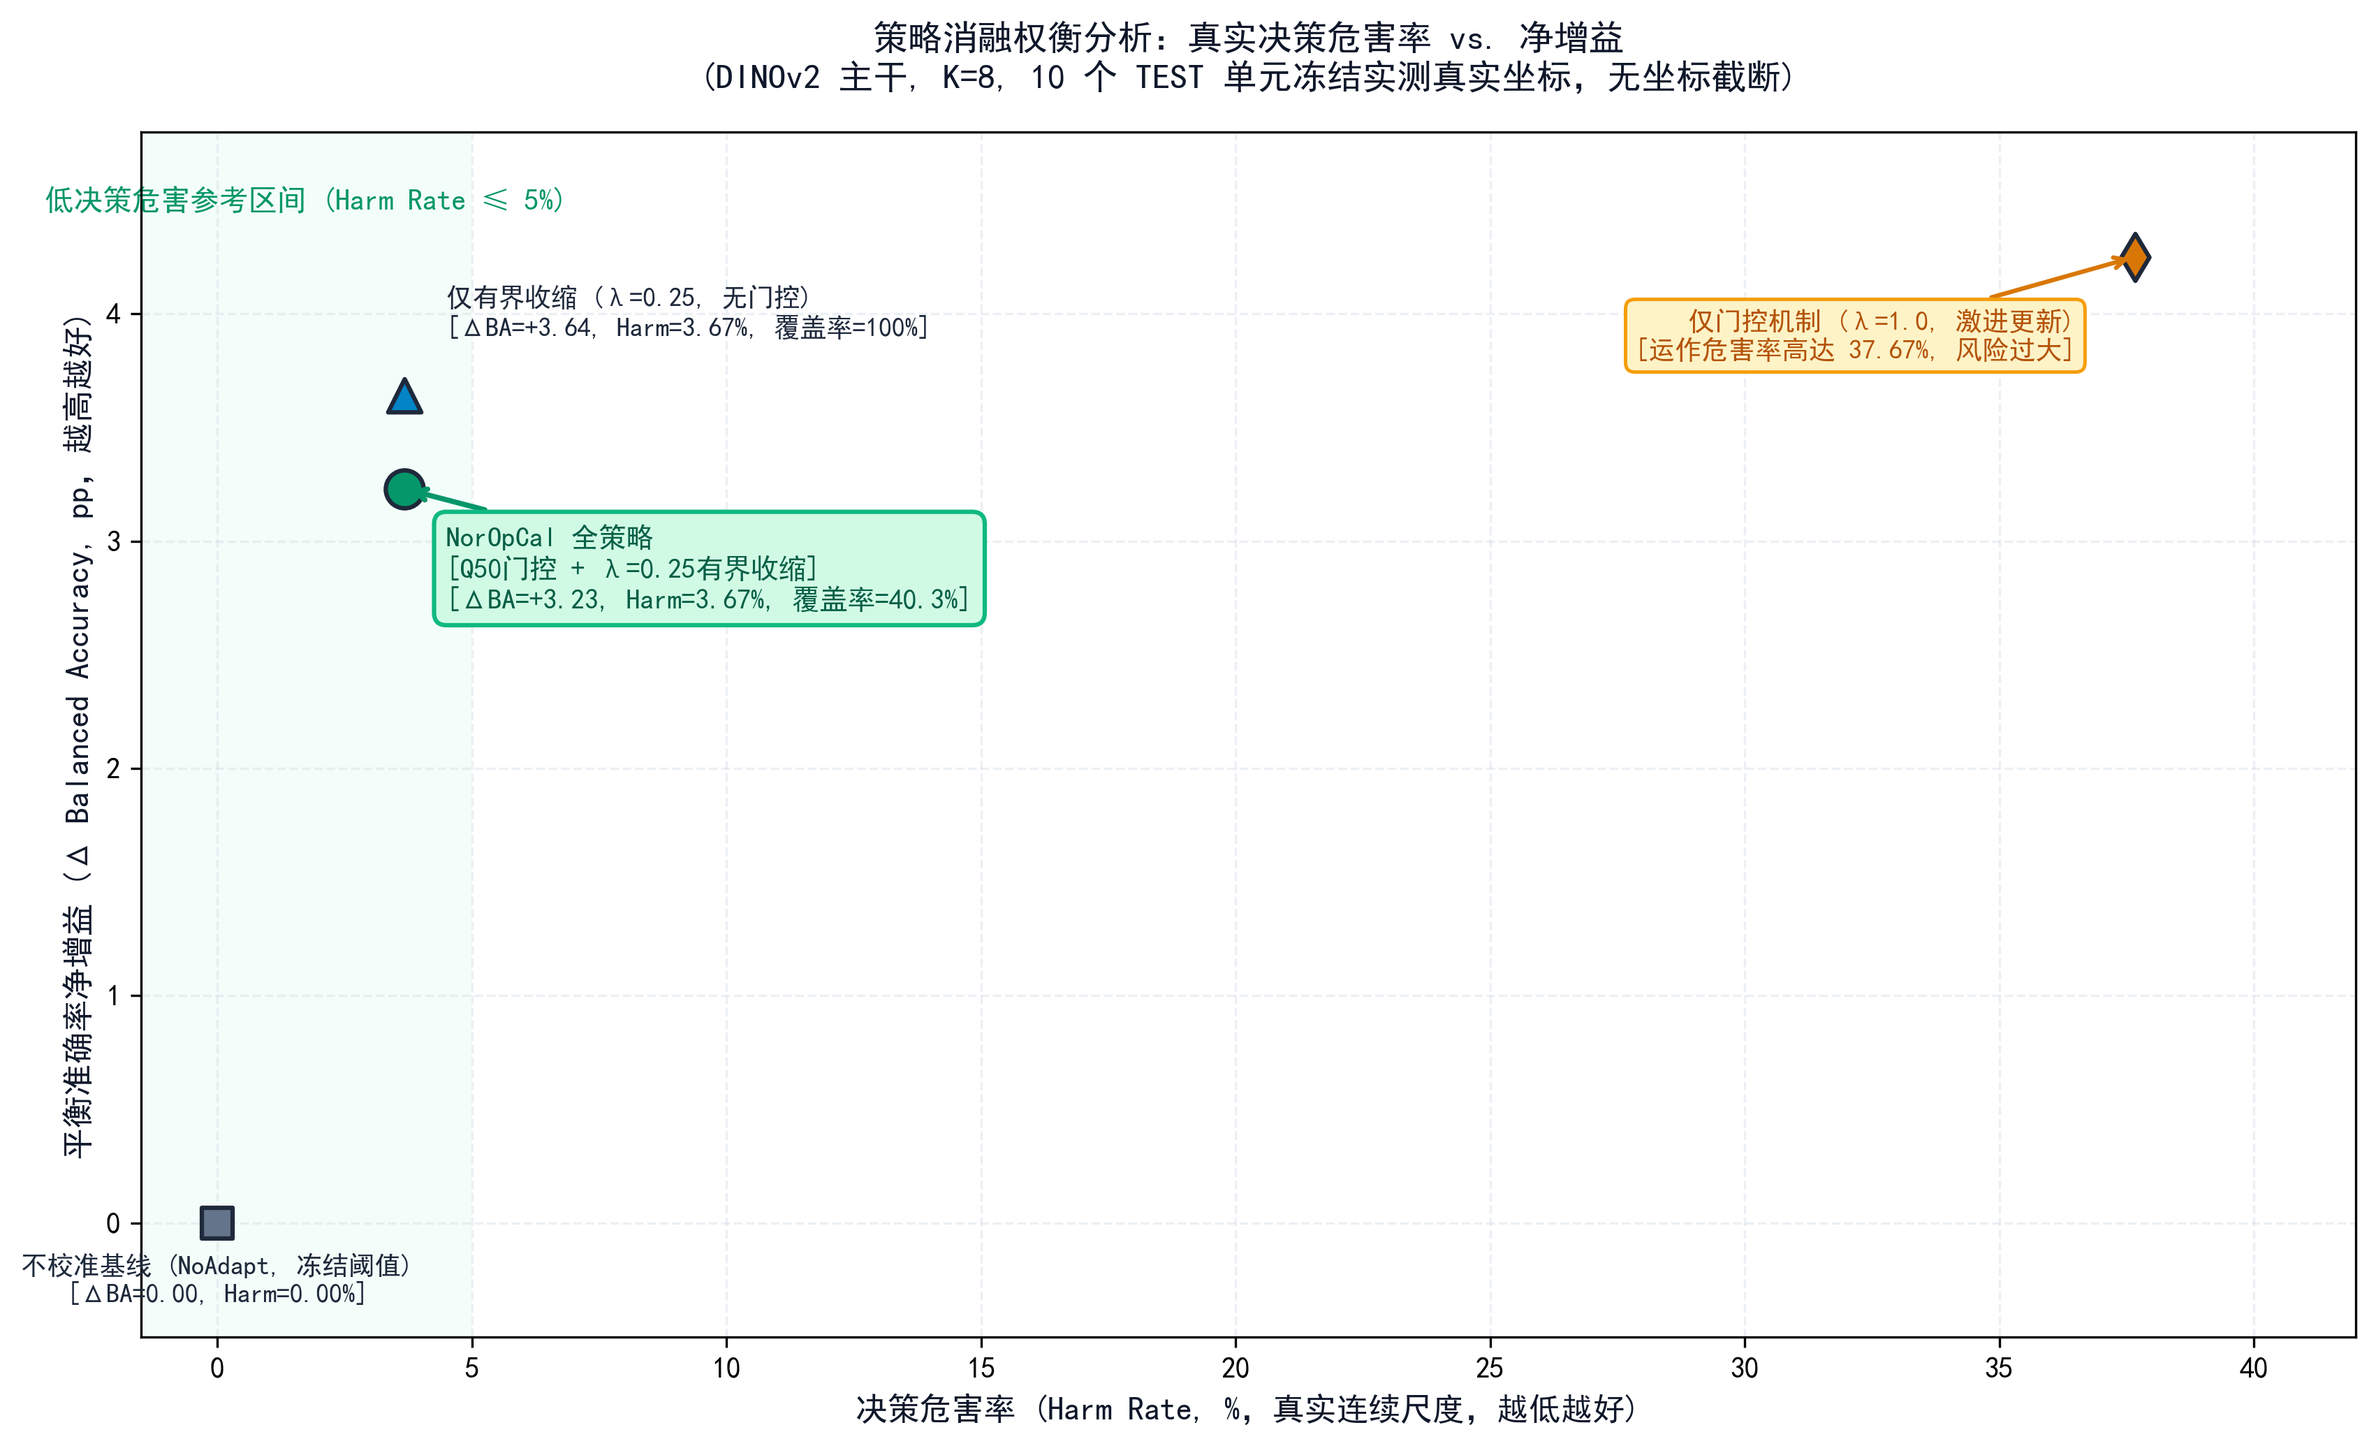
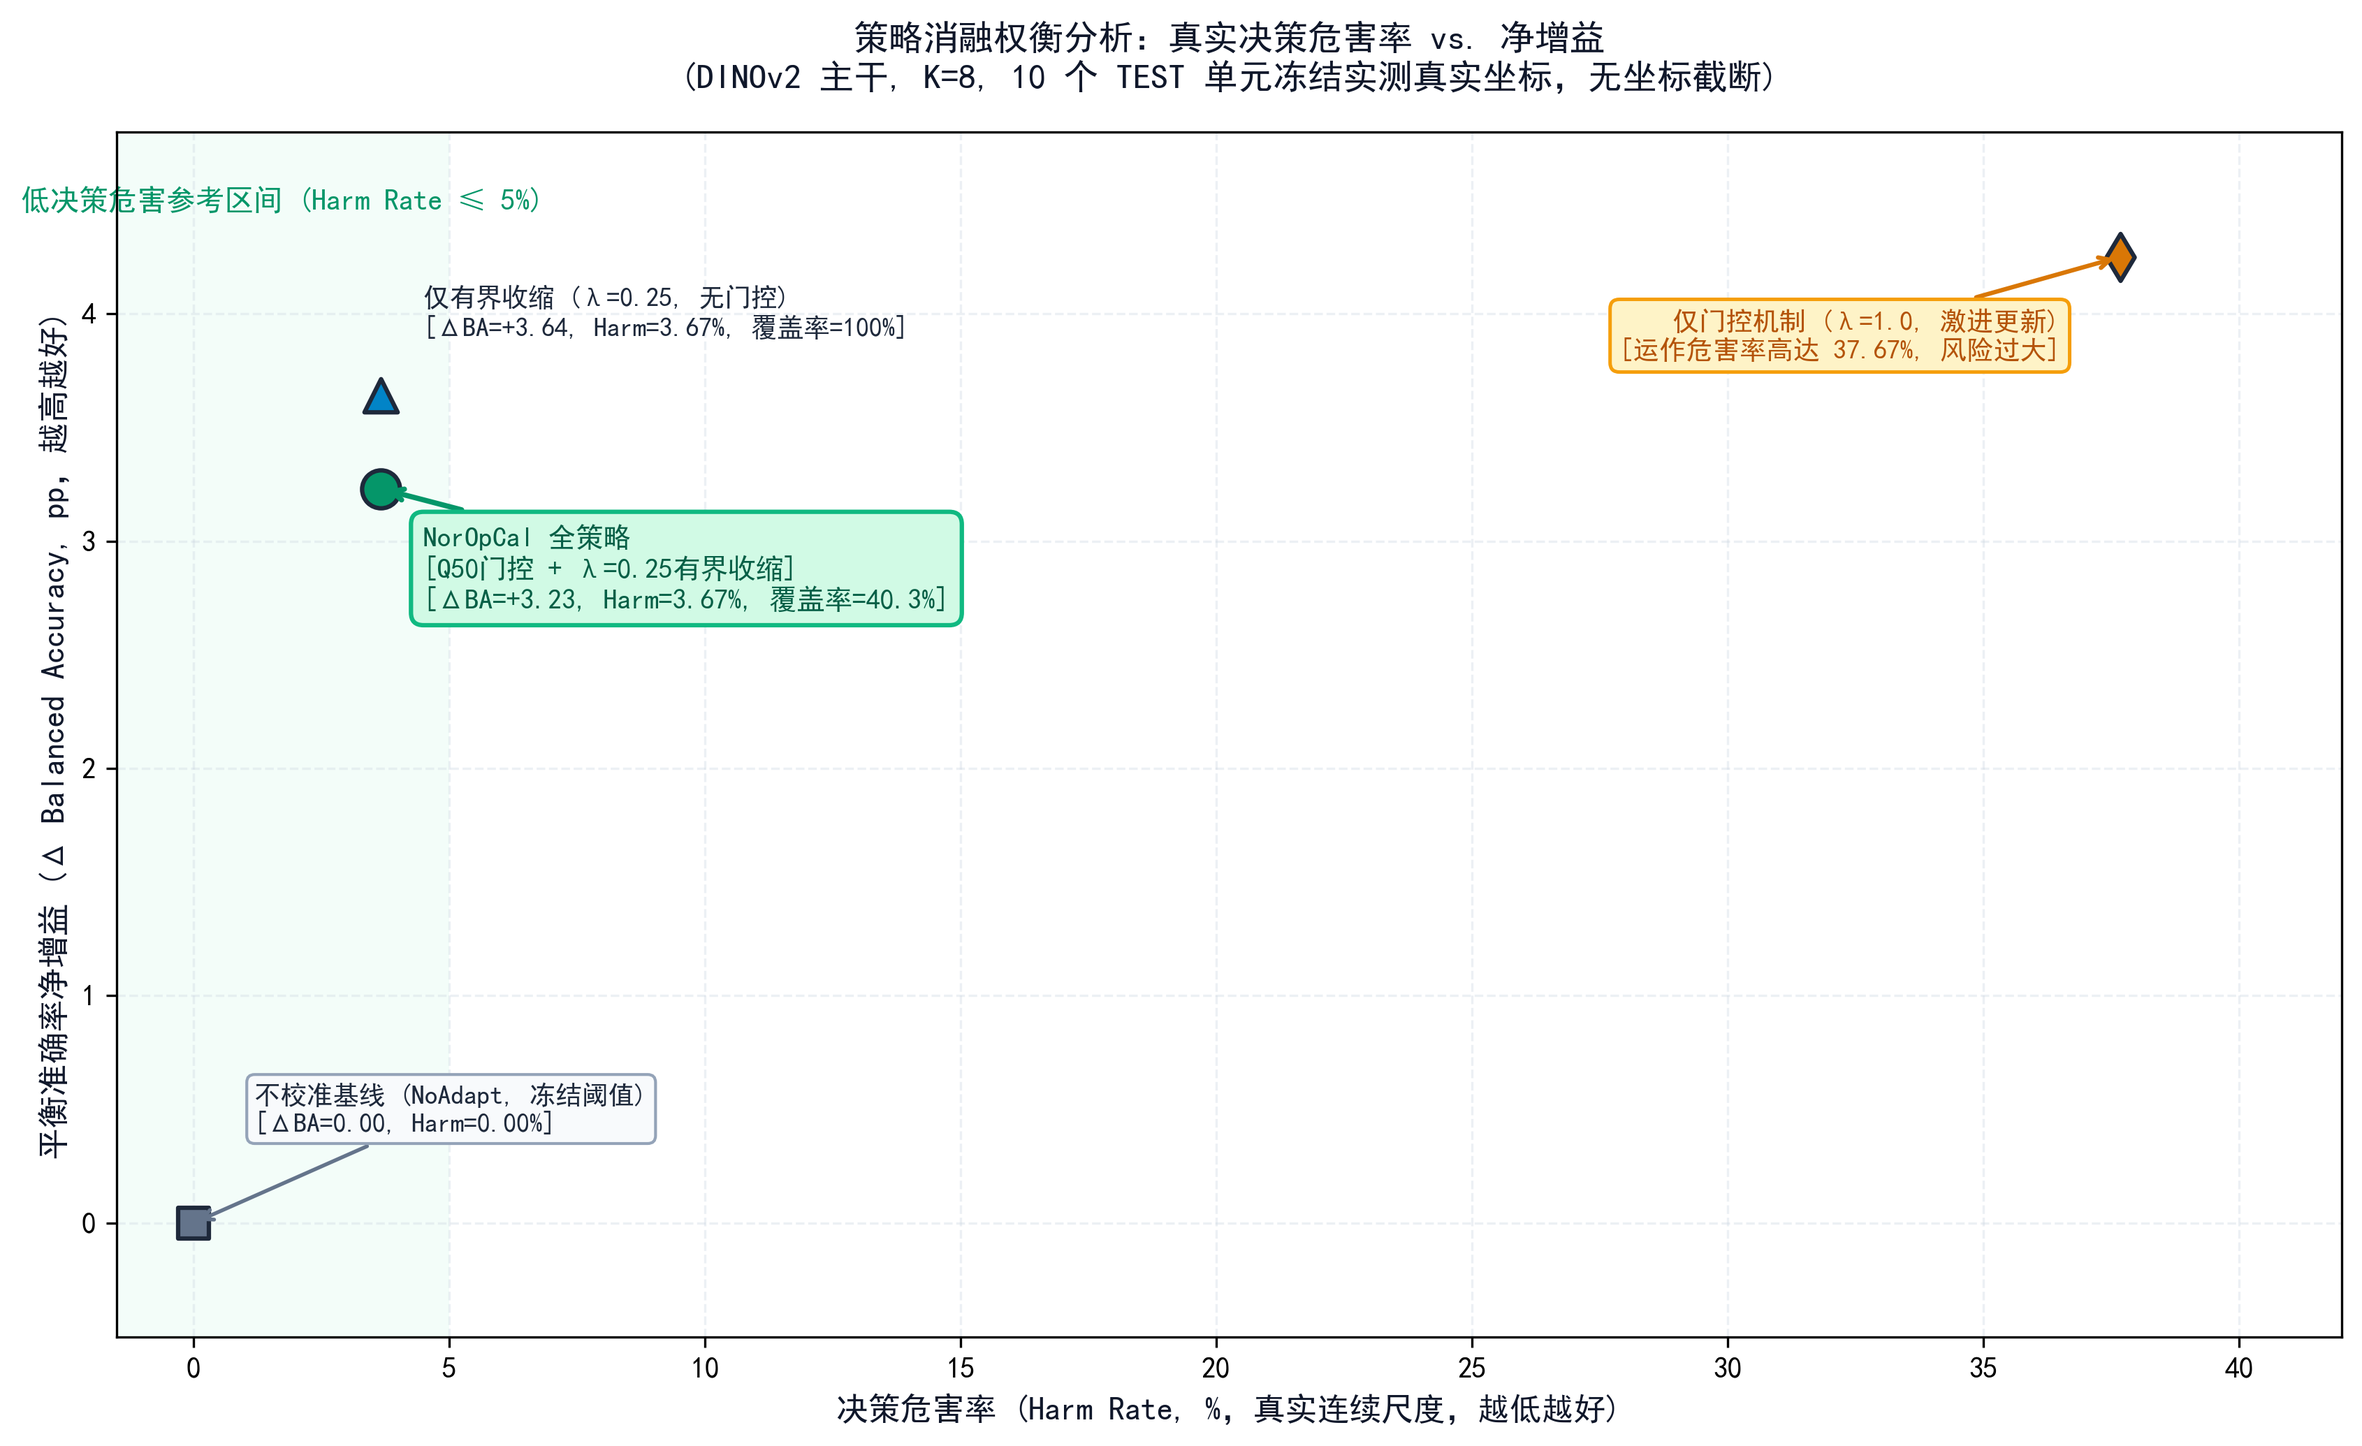
docs(figures): align figure counts, rectify Fig 4 selective calibration wording, and resolve visual text collisions

diff --git a/assets/figures/generate_all_figures.py b/assets/figures/generate_all_figures.py
@@ -1,7 +1,7 @@
 """NorOpCal Figure Generation Suite.
 
-Generates core publication-grade and diagnostic figures:
-- Fig1_系统框架图.png (Framework diagram)
+Generates 4 publication-grade diagnostic and conceptual figures (Fig 2–5):
+(Note: Fig1_系统框架图.png is the authentic author static framework diagram)
 - Fig2_帕累托风险增益前沿.png (Authentic continuous-scale ablation trade-off on DINOv2)
 - Fig3_样本效率与骨干迁移性.png (Conceptual SE decay & detector feasibility classification)
 - Fig4_安全门控消融与危害率压制.png (Controlled mechanism attribution between Bounding and Gating)
@@ -47,7 +47,7 @@ def generate_fig2():
 
     # Authentic frozen ablation points on DINOv2 (K=8, 10 TEST units: fabric + walnuts)
     methods = [
-        {"name": "不校准基线 (NoAdapt, 冻结阈值)\n[ΔBA=0.00, Harm=0.00%]", "x": 0.0, "y": 0.0, "color": "#64748B", "marker": "s", "size": 110, "text_xy": (0.0, -0.35), "ha": "center"},
+        {"name": "不校准基线 (NoAdapt, 冻结阈值)\n[ΔBA=0.00, Harm=0.00%]", "x": 0.0, "y": 0.0, "color": "#64748B", "marker": "s", "size": 110, "text_xy": (1.2, 0.4), "ha": "left", "arrow": True},
         {"name": "仅有界收缩 (λ=0.25, 无门控)\n[ΔBA=+3.64, Harm=3.67%, 覆盖率=100%]", "x": 3.67, "y": 3.64, "color": "#0284C7", "marker": "^", "size": 130, "text_xy": (4.5, 3.9), "ha": "left"},
         {"name": "仅门控机制 (λ=1.0, 激进更新)\n[运作危害率高达 37.67%, 风险过大]", "x": 37.67, "y": 4.25, "color": "#D97706", "marker": "d", "size": 130, "text_xy": (36.5, 3.8), "ha": "right"},
         {"name": "NorOpCal 全策略\n[Q50门控 + λ=0.25有界收缩]\n[ΔBA=+3.23, Harm=3.67%, 覆盖率=40.3%]", "x": 3.67, "y": 3.23, "color": "#059669", "marker": "o", "size": 170, "text_xy": (4.5, 2.7), "ha": "left", "highlight": True}
@@ -62,6 +62,11 @@ def generate_fig2():
                         fontsize=9.5, fontweight='bold', color='#065F46', ha=m["ha"],
                         bbox=dict(boxstyle="round,pad=0.45", fc="#D1FAE5", ec="#10B981", lw=1.5),
                         arrowprops=dict(arrowstyle="->", color='#059669', lw=1.8), zorder=6)
+        elif m.get("arrow"):
+            ax.annotate(m["name"], xy=(m["x"], m["y"]), xytext=m["text_xy"],
+                        fontsize=9.0, fontweight='bold', color='#1E293B', ha=m["ha"],
+                        bbox=dict(boxstyle="round,pad=0.3", fc="#F8FAFC", ec="#94A3B8", lw=1.0),
+                        arrowprops=dict(arrowstyle="->", color='#64748B', lw=1.3), zorder=6)
         elif m["x"] > 20:
             ax.annotate(m["name"], xy=(m["x"], m["y"]), xytext=m["text_xy"],
                         fontsize=9.2, fontweight='bold', color='#B45309', ha=m["ha"],
@@ -142,12 +147,14 @@ def generate_fig3():
         rect = patches.FancyBboxPatch((0.2, y_top - card_h), 9.6, card_h,
                                       boxstyle="round,pad=0.15", ec=c["border"], fc=c["bg"], lw=1.5)
         ax2.add_patch(rect)
-        ax2.text(0.5, y_top - 0.55, f"{c['detector']}  |  {c['role']}", fontsize=9.8, fontweight='bold', color="#0F172A")
-        badge = patches.FancyBboxPatch((6.6, y_top - 0.75), 3.0, 0.55,
+        # Separate detector name and role vertically so they never collide with the badge
+        ax2.text(0.5, y_top - 0.52, c['detector'], fontsize=9.8, fontweight='bold', color="#0F172A")
+        ax2.text(0.5, y_top - 0.90, f"角色定位：{c['role']}", fontsize=8.4, color="#475569", fontweight='bold')
+        badge = patches.FancyBboxPatch((6.6, y_top - 0.72), 3.0, 0.52,
                                        boxstyle="round,pad=0.08", ec="none", fc=c["badge_bg"])
         ax2.add_patch(badge)
-        ax2.text(8.1, y_top - 0.48, c["verdict"], fontsize=8.2, fontweight='bold', color="#FFFFFF", ha="center", va="center")
-        ax2.text(0.5, y_top - 1.25, c["desc"], fontsize=8.3, color="#334155", va="top", linespacing=1.35)
+        ax2.text(8.1, y_top - 0.46, c["verdict"], fontsize=8.2, fontweight='bold', color="#FFFFFF", ha="center", va="center")
+        ax2.text(0.5, y_top - 1.38, c["desc"], fontsize=8.3, color="#334155", va="top", linespacing=1.35)
 
     out = os.path.join(OUTPUT_DIR, "Fig3_样本效率与骨干迁移性.png")
     plt.tight_layout()
@@ -195,21 +202,21 @@ def generate_fig4():
     # Explicit attribution annotations
     # 1. Bounding effect: ② vs ④ (control: same Q50 gate)
     ax2.annotate("有界收缩控危害 (② vs ④，同门控):\nλ 从 1.0 降为 0.25 -> 危害率由 37.67% 骤降至 3.67%",
-                 xy=(1.0, 38.0), xytext=(0.4, 43.5),
+                 xy=(0.72, 30.0), xytext=(0.38, 45.0), ha='center',
                  arrowprops=dict(arrowstyle="->", color='#DC2626', lw=1.5),
                  fontsize=8.5, fontweight='bold', color='#991B1B',
-                 bbox=dict(boxstyle="round,pad=0.3", fc="#FEF2F2", ec="#FECDD3", lw=1.0))
+                 bbox=dict(boxstyle="round,pad=0.35", fc="#FEF2F2", ec="#FECDD3", lw=1.0))
     
     # 2. Gating effect: ③ vs ④ (control: same λ=0.25 bounding)
-    ax2.annotate("门控机制施选择 (③ vs ④，同收缩):\n收缩同为 λ=0.25，Harm 均为 3.67% -> 门控使覆盖率由 100% 优化为 40.3%",
-                 xy=(3.0, 6.0), xytext=(1.2, 17.0),
+    ax2.annotate("门控机制施选择 (③ vs ④，同收缩):\n收缩均为 λ=0.25，Harm 均为 3.67%\n覆盖率从 100% 降至 40.33%，实现选择性校准",
+                 xy=(2.5, 6.0), xytext=(2.5, 20.0), ha='center',
                  arrowprops=dict(arrowstyle="->", color='#059669', lw=1.5),
                  fontsize=8.5, fontweight='bold', color='#065F46',
-                 bbox=dict(boxstyle="round,pad=0.3", fc="#ECFDF5", ec="#A7F3D0", lw=1.0))
+                 bbox=dict(boxstyle="round,pad=0.35", fc="#ECFDF5", ec="#A7F3D0", lw=1.0))
 
     ax2.set_ylabel("决策危害率 (Harm Rate, %)", fontsize=10.5, fontweight='bold')
     ax2.set_title("机制归因：严格单一变量对照分析\n[收缩作用(② vs ④): 压降危害率；门控作用(③ vs ④): 赋予选择性]", fontsize=11.0, fontweight='bold', pad=12)
-    ax2.set_ylim(0, 50)
+    ax2.set_ylim(0, 52)
     ax2.grid(True, linestyle='--', alpha=0.35, axis='y')
 
     out = os.path.join(OUTPUT_DIR, "Fig4_安全门控消融与危害率压制.png")
@@ -246,15 +253,15 @@ def generate_fig5():
     # Subplot 1: Before
     ax1.set_facecolor('#FFFFFF')
     ax1.set_xlim(0, 1.0)
-    ax1.set_ylim(0, 8.0)
+    ax1.set_ylim(0, 8.8)
     ax1.grid(True, linestyle='--', alpha=0.35, color='#CBD5E1')
 
     ax1.plot(x, src_pdf, color='#94A3B8', linestyle='--', lw=2.0, label=f"源域正常得分分布 (标定中位数 m_s={m_s:.4f})")
     ax1.plot(x, tgt_pdf, color='#EA580C', lw=2.5, label="目标域正常得分分布 (漂移工况)")
     ax1.plot(x, defect_pdf, color='#DC2626', lw=2.2, label="缺陷/异常样本得分分布")
 
-    ax1.vlines(x=tau_s, ymin=0, ymax=5.5, color='#0F172A', lw=2.2, linestyle='-', zorder=4)
-    ax1.text(tau_s, 6.4, f"源域静态阈值 τ_s = {tau_s:.4f}\n(未自适应，无法感知采集工况漂移)", 
+    ax1.vlines(x=tau_s, ymin=0, ymax=6.6, color='#0F172A', lw=2.2, linestyle='-', zorder=4)
+    ax1.text(tau_s, 7.3, f"源域静态阈值 τ_s = {tau_s:.4f}\n(未自适应，无法感知采集工况漂移)", 
              fontsize=9.2, fontweight='bold', color='#0F172A', ha='center', va='center',
              bbox=dict(boxstyle="round,pad=0.4", fc="#F8FAFC", ec="#0F172A", lw=1.2), zorder=5)
 
@@ -274,7 +281,7 @@ def generate_fig5():
     # Subplot 2: After
     ax2.set_facecolor('#FFFFFF')
     ax2.set_xlim(0, 1.0)
-    ax2.set_ylim(0, 8.0)
+    ax2.set_ylim(0, 8.8)
     ax2.grid(True, linestyle='--', alpha=0.35, color='#CBD5E1')
 
     ax2.plot(x, tgt_pdf, color='#059669', lw=2.5, label="目标域正常样本分布")
@@ -285,17 +292,24 @@ def generate_fig5():
     ax2.scatter(tgt_k8, np.full_like(tgt_k8, 0.25), color='#F59E0B', s=70, marker='o', 
                 edgecolor='#78350F', lw=1.4, zorder=6, label=f"目标域正常参考样本 (K=8, 样本中位数 m_t={m_t:.4f})")
 
-    ax2.vlines(x=tau_s, ymin=0, ymax=4.5, color='#94A3B8', lw=1.8, linestyle=':', zorder=4)
-    ax2.text(tau_s, 4.8, f"原静态阈值 τ_s = {tau_s:.4f}", fontsize=8.5, color='#64748B', ha='center', va='bottom')
+    ax2.vlines(x=tau_s, ymin=0, ymax=4.8, color='#94A3B8', lw=1.8, linestyle=':', zorder=4)
+    ax2.text(tau_s - 0.03, 4.8, f"原静态阈值 τ_s = {tau_s:.4f}", fontsize=8.5, color='#475569', ha='right', va='center',
+             bbox=dict(boxstyle="round,pad=0.25", fc="#FFFFFF", ec="#94A3B8", lw=0.9, alpha=0.95), zorder=5)
 
-    ax2.vlines(x=tau_t, ymin=0, ymax=5.5, color='#059669', lw=2.6, linestyle='-', zorder=4)
-    ax2.text(tau_t, 6.5, f"NorOpCal 自适应校准阈值 τ_t = {tau_t:.4f}\n[Δm={delta_m:.4f} ≥ Q50({cutoff_q50:.4f}) -> 触发校准]\n[严格数学生成: τ_t = τ_s + 0.25·Δm]", 
+    ax2.vlines(x=tau_t, ymin=0, ymax=6.6, color='#059669', lw=2.6, linestyle='-', zorder=4)
+    ax2.text(tau_t, 7.3, f"NorOpCal 自适应校准阈值 τ_t = {tau_t:.4f}\n[Δm={delta_m:.4f} ≥ Q50({cutoff_q50:.4f}) -> 触发校准]\n[严格数学生成: τ_t = τ_s + 0.25·Δm]", 
              fontsize=9.2, fontweight='bold', color='#065F46', ha='center', va='center',
              bbox=dict(boxstyle="round,pad=0.4", fc="#D1FAE5", ec="#10B981", lw=1.3), zorder=5)
 
+    # Shift indicator bracket and annotation in clean whitespace to the left
     ax2.annotate("", xy=(tau_t, 3.5), xytext=(tau_s, 3.5),
-                 arrowprops=dict(arrowstyle="->", color='#059669', lw=2.2, mutation_scale=15))
-    ax2.text((tau_s + tau_t)/2, 3.8, f"有界平移量: λ·Δm = {lam * delta_m:.4f}", fontsize=8.8, fontweight='bold', color='#059669', ha='center')
+                 arrowprops=dict(arrowstyle="<->", color='#059669', lw=2.0), zorder=5)
+    ax2.annotate(f"有界平移量: λ·Δm = {lam * delta_m:.4f}\n(阈值适度后移，抑制误报)",
+                 xy=((tau_s + tau_t)/2, 3.5), xytext=(0.18, 3.5),
+                 ha='right', va='center',
+                 arrowprops=dict(arrowstyle="->", color='#059669', lw=1.5),
+                 fontsize=8.5, fontweight='bold', color='#065F46',
+                 bbox=dict(boxstyle="round,pad=0.3", fc="#ECFDF5", ec="#A7F3D0", lw=1.0), zorder=6)
 
     ax2.text(0.18, 1.8, "【工况自适应区】\n感知中位数正向漂移适度后移阈值\n显著抑制目标域良品误判", 
              fontsize=8.8, fontweight='bold', color='#065F46', ha='center', va='center',

diff --git a/README.md b/README.md
@@ -46,7 +46,7 @@ NorOpCal 将该问题形式化为**仅基于正常样本的操作点安全校准
 | 复现层级 | 包含内容 | 运行命令 | 是否依赖外部资产 |
 | :--- | :--- | :--- | :--- |
 | **Level 1：核心算法与 API** | 核心自包含算法库 `src/noropcal`、权威冻结规范 `load_frozen_spec()` 及全套自动化单元测试。 | `pytest tests/` | **否**（完全自包含，已纳入 CI） |
-| **Level 2：原理演示与合成验证** | 合成工况漂移下的端到端快速上手演示与 5 张学术概念诊断图表生成。 | `python scripts/demo.py`<br>`python assets/figures/generate_all_figures.py` | **否**（开箱即用，已纳入 CI） |
+| **Level 2：原理演示与合成验证** | 合成工况漂移下的端到端快速上手演示与 4 张学术概念诊断图表生成（Fig 2–5，另有既存架构图 Fig 1）。 | `python scripts/demo.py`<br>`python assets/figures/generate_all_figures.py` | **否**（开箱即用，已纳入 CI） |
 | **Level 3：论文全量实验复现** | 论文涉及的全部 39 个工况单元、完整高分辨率工业图像特征抽取与跨模型重跑。 | 依赖历史全量重跑流水线 | **是**（需自备数百 GB 的 MVTec AD 2 原始图像与各模型 Checkpoint 权重） |
 
 > [!IMPORTANT]

diff --git a/README_EN.md b/README_EN.md
@@ -39,7 +39,7 @@ To maintain rigorous scientific standards, this repository defines three distinc
 | Level | Scope | Commands | External Assets Required |
 | :--- | :--- | :--- | :--- |
 | **Level 1: Core Algorithm & API** | Self-contained library `src/noropcal`, sealed protocol specification `load_frozen_spec()`, and full unit tests. | `python -m pytest -v tests/` | **No** (Fully self-contained, tested in CI) |
-| **Level 2: Principle Demo & Synthetic Validation** | Interactive demonstration under synthetic shifts and 5 diagnostic figure generation scripts. | `python scripts/demo.py`<br>`python assets/figures/generate_all_figures.py` | **No** (Tested in CI) |
+| **Level 2: Principle Demo & Synthetic Validation** | Interactive demonstration under synthetic shifts and generation of 4 diagnostic figures (Fig 2–5, alongside the existing Fig 1 architecture diagram). | `python scripts/demo.py`<br>`python assets/figures/generate_all_figures.py` | **No** (Tested in CI) |
 | **Level 3: Full Paper Experiment Reproduction** | All 39 acquisition units across MVTec AD 2, raw image feature extraction, and multi-backbone re-runs. | Legacy execution pipeline | **Yes** (Requires hundreds of GBs of raw MVTec AD 2 images and pre-trained weights) |
 
 > [!IMPORTANT]
